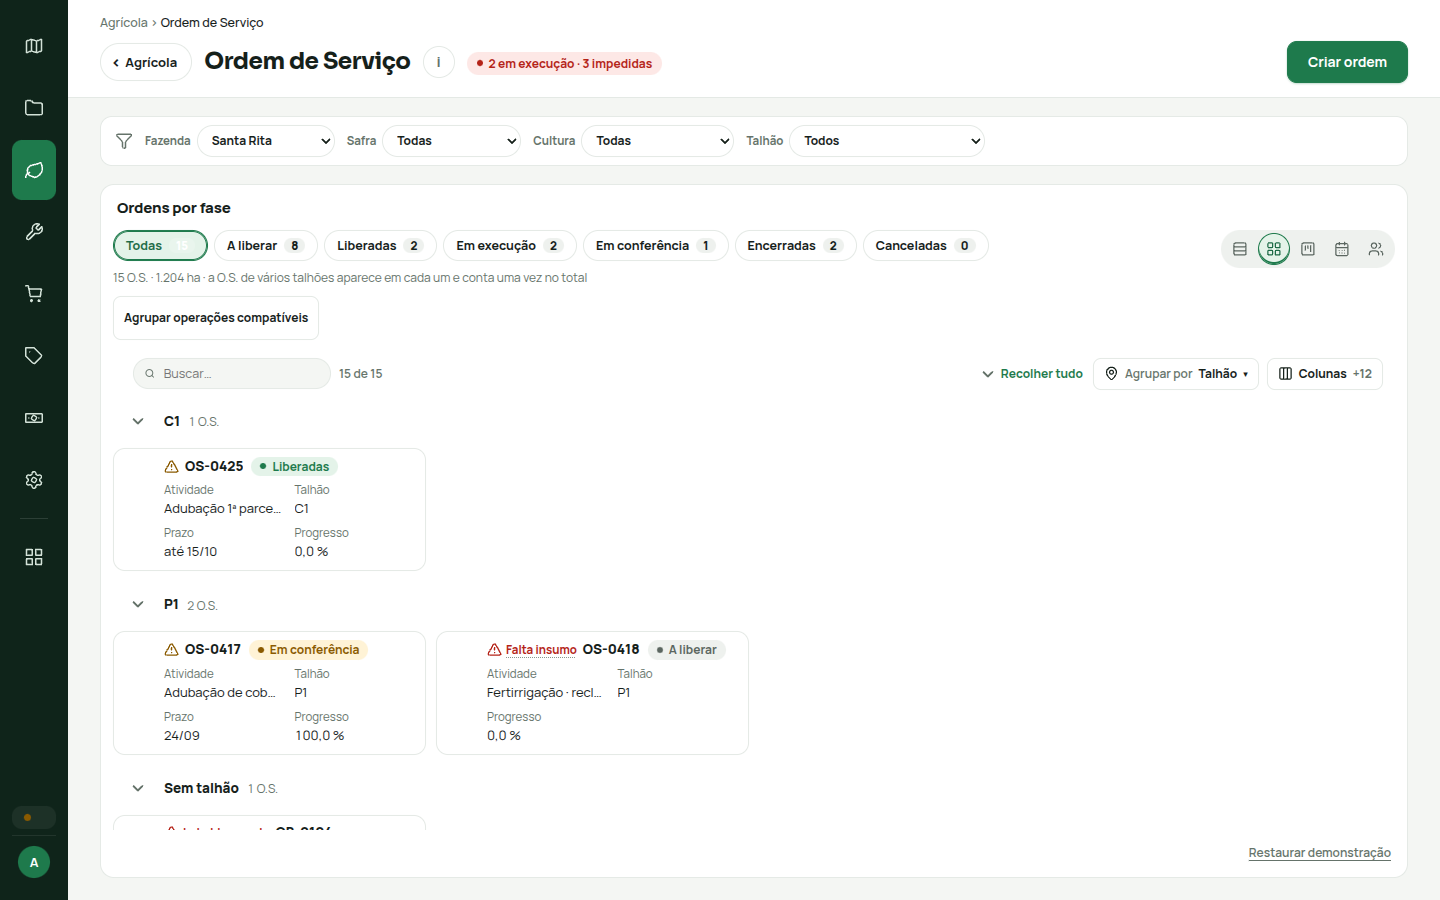
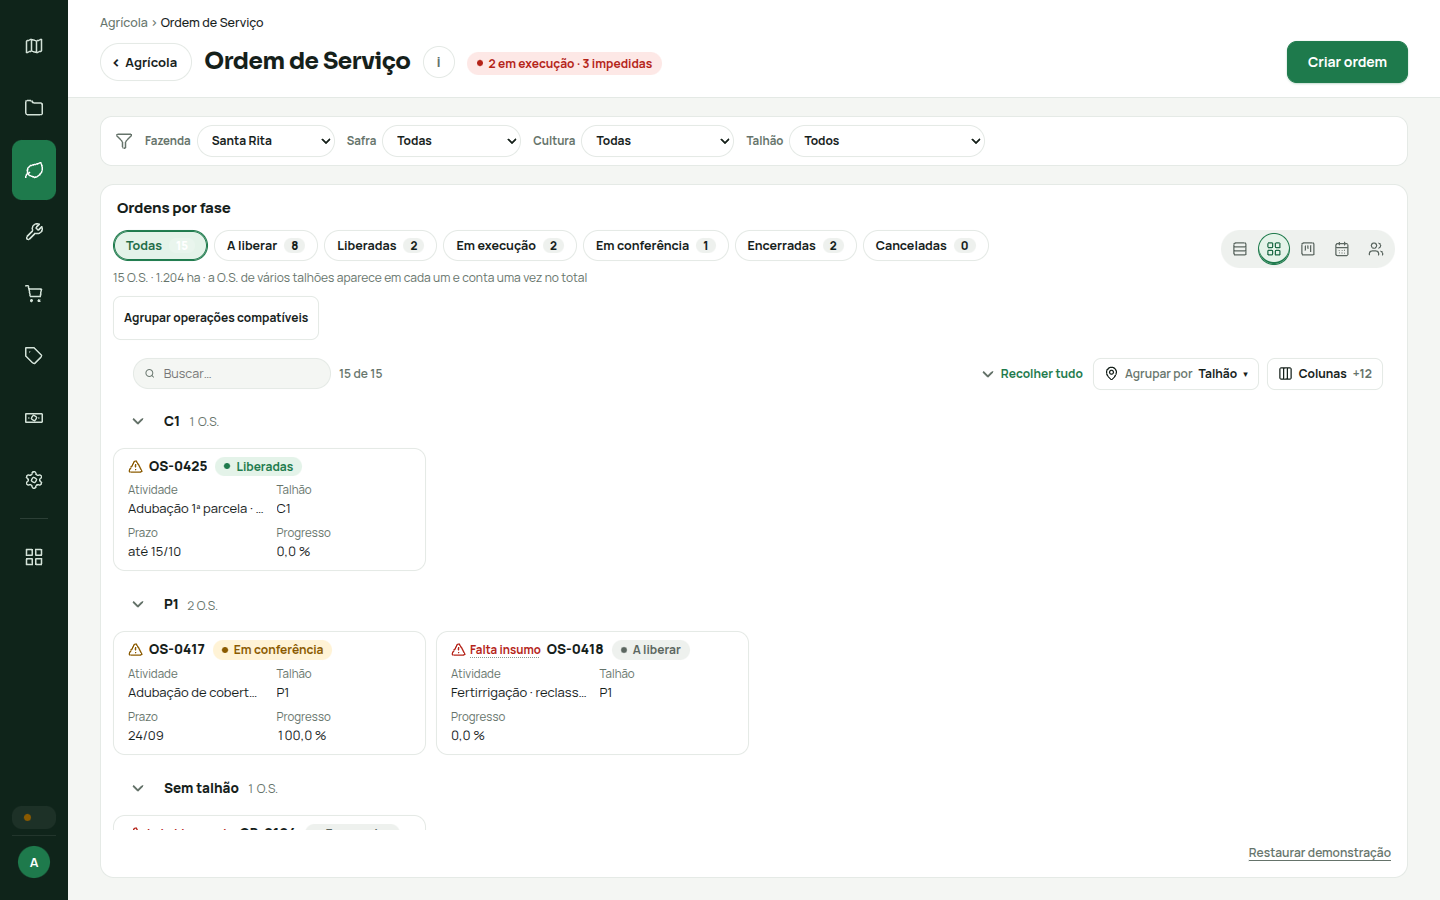
VIS-07: cartão sem coluna vazia da seta no Agrupar por e com o selo de estado no celular
Achados da paridade visual na O.S. em Cartões agrupada por talhão:
- cada cartão abria com ~40 px vazios à esquerda: a coluna da seta era reservada
  porque havia grupos; agora só quando algum cartão tem itens dentro, e o título
  do grupo tem a própria coluna (.g2cd-gcab);
- a 390 px o cartão ficava sem o selo da Fase (a grade do celular só tinha as 3
  primeiras colunas); em Cartões, o celular usa o título e até 4 colunas do
  padrão (g2cvCar); a Tabela no celular segue com as 3 primeiras.

Proteção de regressão: ds_1610_test C3 (contraprova no render de 5bb8f5e: 43/51 px
vazios e 0 de 11 com selo). Executado na candidata: ds_1610 15/0 e parte C 8/0,
cartoes 70/70, ds_test 72/72, visoes2_colunas 14/14, tabelas_os 40/40,
paginas_scan 0 falhas (148), seta_padrao 14/0 (2ª rodada; a 1ª teve 1 falha de
giro na PA, não reproduzida), ds_modulos --catraca ok (13).

Claude-Session: https://claude.ai/code/session_01Div8EjesSwVnpSUvYjZ7kh

Changed region(s): [[0.0938, 0.6844, 0.25, 0.84], [0.0938, 0.4978, 0.25, 0.6222], [0.3125, 0.7156, 0.5, 0.84]]

diff --git a/tools/prototipo/v37/gen37/g2lib.js b/tools/prototipo/v37/gen37/g2lib.js
@@ -281,6 +281,9 @@ function g2cvLer(self,sp){ if(typeof window!=='undefined'&&window.__g2cvTodasSem
   const st=g2st(self,sp.id); if(st.cvpf===undefined||st.cvpf===g2pfk()){ if(Array.isArray(st.cv)) return st.cv; if(st.cv===false) return null; } let x=null;
   try{ x=JSON.parse(localStorage.getItem(g2cvChave(sp))||'null'); }catch(e){ x=null; } return Array.isArray(x)?x.filter(k=>sp.cols.some(c=>c.k===k)):null; }
 function g2cvCel(){ try{ return window.matchMedia('(max-width: 640px)').matches; }catch(e){ return false; } }
+// a grade está em Cartões? (o mesmo modo que g2modosFim vai ler depois do EXTRAVALS)
+function g2cvCar(self,sp){ try{ if(!sp.modo) return false; if(sp.modo==='externo') return g2mdExterno(self,sp)==='cartoes';
+  return g2mdTem(sp)&&g2mdLer(self,{id:sp.id,padrao:'tabela',url:'vista'})==='cartoes'; }catch(e){ return false; } }
 function g2colsVis(self,sp){ if(!g2cvTem(sp)) return sp.cols; const esc=g2cvLer(self,sp), pad=g2cvPadrao(sp), k0=sp.cols[0].k;
   let S=new Set(esc||pad); S.add(k0);
   // o padrão vem na ordem do "Abre com"; cada coluna a mais gruda na vizinha da grade que está no padrão (a anterior; senão a seguinte) e, sem
@@ -292,7 +295,9 @@ function g2colsVis(self,sp){ if(!g2cvTem(sp)) return sp.cols; const esc=g2cvLer(
     else { let j=-1; for(let a=i-1;a>=0&&j<0;a--) j=ord.indexOf(gk[a]); at=j+1; }
     ord.splice(at,0,k); });
   if(gk.every(k=>S.has(k))) ord=gk.slice();   // todas à vista: a tabela completa como foi desenhada (ordem da grade)
-  if(!esc&&g2cvCel()) ord=ord.slice(0,3);   // celular: as 3 primeiras do padrão; a escolha explícita vale em qualquer tela
+  // celular: as 3 primeiras do padrão; a escolha explícita vale em qualquer tela. Em Cartões (VIS-07, 17/10/2026), o título e até G2_CD_MAX
+  // colunas, para o cartão do celular trazer o selo de estado (Fase, Situação) e os mesmos campos do cartão da tela grande
+  if(!esc&&g2cvCel()) ord=ord.slice(0,g2cvCar(self,sp)?1+G2_CD_MAX:3);
   return ord.map(k=>sp.cols.find(c=>c.k===k)).filter(Boolean); }
 function g2cvGrava(self,sp,ks){ try{ if(ks) localStorage.setItem(g2cvChave(sp),JSON.stringify(ks)); else localStorage.removeItem(g2cvChave(sp)); }catch(e){}
   g2set(self,sp.id,{cv:ks?ks.slice():false,cvpf:g2pfk()}); }
@@ -482,7 +487,8 @@ function g2cdVals(self,sp,v){ const id=sp.id, rows=v[id+'_rows']||[], cols=v[id+
   const lab=(i)=>String((cols[i]&&cols[i].l)||'').split(' · ')[0], num=(i)=>!!(cols[i]&&cols[i].a==='r'), fcls=(i)=>'g2cd-f'+(num(i)?' g2cd-num':'');
   const larg=ix.map(i=>{ let w=lab(i).length*7.2; dat.forEach(d=>{ if(!g2cdVazio(d[i])) w=Math.max(w,g2cdLarg(d[i])); }); return Math.round(Math.min(240,Math.max(56,w))+18); });
   const fs=(P)=>ix.map(i=>{ const c=P.dat[i], vz=g2cdVazio(c); return {l:lab(i), parts:vz?[]:c.parts, cls:fcls(i)}; });
-  const temCar=rows.some(rw=>rw.has||rw.grp), temAc=P0.some(P=>P.tr.some(c=>c&&c.isDel));
+  // VIS-07 (17/10): só reserva a coluna da seta quando algum cartão tem itens dentro; o título do grupo tem a sua (CARTOES_CSS .g2cd-gcab)
+  const temCar=rows.some(rw=>rw.has&&!rw.grp), temAc=P0.some(P=>P.tr.some(c=>c&&c.isDel));
   v[id+'_cdgtc']='grid-template-columns:'+(temCar?'max(36px,var(--g2seta-alvo,24px))':'0px')+' '+(off?'34px':'0px')+' minmax(160px,1fr) '+(larg.length?larg.map(w=>'minmax(0,'+w+'px)').join(' '):'0px')+' '+(temAc?'48px':'0px')+';';
   v[id+'_cdcar']=temCar?'1':''; v[id+'_cdhd']=ix.map(i=>({l:lab(i), cls:fcls(i)})); v[id+'_cdhdT']=lab(0); v[id+'_cdhdHas']=ix.length>0;
   const base=(rw)=>{ const P=parte(rw), t0=P.dat[0]||{}, ed=/\bg2ed\b/.test(rw.cls||''), fl=/\bg2flash\b/.test(rw.cls||'');

diff --git a/tools/prototipo/v37/gen37/ds_1610_test.py b/tools/prototipo/v37/gen37/ds_1610_test.py
@@ -103,6 +103,17 @@ def parte_c(c, J, BASE):
     a2 = ids(); txt = J("[...document.querySelectorAll('.pa-tb-l[data-atv]')].map(x=>x.innerText).join('|')") or ''
     chk('C2 TAB-08 Atividades em Tabela: ⇅ do Custo/ha ordena do menor para o maior; o funil de Insumos tira "2 insumos"',
         len(a0) >= 6 and vals == sorted(vals) and len(vals) >= 5 and 0 < len(a2) < len(a0) and '2 insumos' not in txt, [a0, vals, a2])
+    # C3 VIS-07 (17/10/2026, achados da paridade visual da DS-MODULOS-2 na O.S. agrupada por talhão): (a) a 1440 px o cartão sem itens dentro não
+    # reserva a coluna da seta (antes, ~40 px vazios à esquerda de cada cartão); (b) a 390 px o cartão traz o selo da Fase como no computador (antes, a
+    # grade do celular só tinha as 3 primeiras colunas e a Fase ficava de fora). Contraprova: RENDER_DIR no render de 5bb8f5e reprova C3.
+    MED = """(()=>{ const vis=e=>!!e&&e.getClientRects().length>0; const ks=[...document.querySelectorAll('[data-g2cd="g_os"] .g2cd')].filter(vis);
+        const sem=ks.filter(k=>!vis(k.querySelector('.g2cd-nk'))), esq=sem.map(k=>Math.round(k.querySelector('.g2cd-tit').getBoundingClientRect().left-k.getBoundingClientRect().left));
+        return {n:ks.length, esqMax:Math.max(0,...esq), selo:ks.filter(k=>vis(k.querySelector(':scope > .g2cd-lin .g2cd-selo'))).length}; })()"""
+    c.goto(BASE + 'OS.dc.html?view=cartoes&ag=onde', 1.6); m14 = J(MED) or {}
+    c.aparelho(390, 844, 2, True); c.goto(BASE + 'OS.dc.html?view=cartoes&ag=onde', 1.6); m39 = J(MED) or {}
+    c.aparelho(1440, 900, 1)
+    chk('C3 VIS-07 O.S. agrupada por talhão: cartão sem itens dentro sem a coluna vazia da seta (1440 e 390) e com o selo da Fase também a 390 px',
+        m14.get('n', 0) > 0 and m14['esqMax'] <= 24 and m39.get('n', 0) > 0 and m39['esqMax'] <= 24 and m39['selo'] == m39['n'], [m14, m39])
 
 if 'S' in PARTES: parte_s()
 if PARTES & {'B', 'C'}:

diff --git a/tools/prototipo/v37/gen37/engine.py b/tools/prototipo/v37/gen37/engine.py
@@ -1591,6 +1591,9 @@ CARTOES_CSS=(
     # grade de cada cartão: seta · seleção · título · ⋯ na 1ª linha; os campos descem, em duas colunas, com o rótulo
     ".g2cd-g{display:grid;align-items:center;min-width:0;box-sizing:border-box;padding:0 4px 0 6px;grid-template-columns:0px auto minmax(0,1fr) auto!important}"
     ".g2cartoes[data-car=\"1\"] .g2cd-g{grid-template-columns:max(36px,var(--g2seta-alvo)) auto minmax(0,1fr) auto!important}"
+    # o título do grupo (Agrupar por) sempre tem a seta que recolhe; o cartão só reserva a coluna da seta quando algum cartão tem itens dentro
+    # (17/10: agrupada por talhão, cada cartão abria com ~40 px vazios à esquerda)
+    ".g2cd-gcab.g2cd-g{grid-template-columns:max(36px,var(--g2seta-alvo)) auto minmax(0,1fr) auto!important}"
     ".g2cd-lin{min-height:52px}"
     ".g2cd-fs{display:grid;grid-column:3/4;grid-row:2;grid-template-columns:repeat(2,minmax(0,1fr));gap:8px 12px;padding:0 8px 10px}"
     ".g2cd-c{grid-column:1;grid-row:1}.g2cd-s{grid-column:2;grid-row:1}.g2cd-tit{grid-column:3;grid-row:1}.g2cd-a{grid-column:4;grid-row:1}"

diff --git a/docs/integracao/V73/ds-modulos-2/DS-MODULOS-2.md b/docs/integracao/V73/ds-modulos-2/DS-MODULOS-2.md
@@ -82,11 +82,13 @@ Medido com o mesmo roteiro nos dois renders (`OS.dc.html?view=cartoes` e `&ag=on
 | Vista | Cartões | Por linha | Largura média | Altura média | Cabeçalho de colunas | Campos rotulados | Com selo de estado |
 |---|---|---|---|---|---|---|---|
 | solta · 1440 px | 10 → 15 | 1 → 4 | 1282 → 313 px | 54 → 121 px | sim → não | 4–4 → 1–4 | 0 → 15 |
-| agrupada por talhão · 1440 px | 11 → 16 | 1 → 1 | 1282 → 313 px | 54 → 124 px | sim → não | 4–4 → 1–4 | 0 → 16 |
-| solta · 390 px | 10 → 15 | 1 → 1 | 268 → 268 px | 77 → 79 px | não → não | 1–2 → 1–2 | 0 → 0 |
-| agrupada por talhão · 390 px | 11 → 16 | 1 → 1 | 268 → 268 px | 77 → 79 px | não → não | 1–2 → 1–2 | 0 → 0 |
+| agrupada por talhão · 1440 px | 11 → 16 | 1 → 1 | 1282 → 313 px | 54 → 121 px | sim → não | 4–4 → 1–4 | 0 → 16 |
+| solta · 390 px | 10 → 15 | 1 → 1 | 268 → 268 px | 77 → 103 px | não → não | 1–2 → 1–3 | 0 → 15 |
+| agrupada por talhão · 390 px | 11 → 16 | 1 → 1 | 268 → 268 px | 77 → 104 px | não → não | 1–2 → 1–3 | 0 → 16 |
 
-Capturas: `capturas/antes|depois/OS_view-cartoes*_{1440,390}_*.png`.
+"Por linha" conta os cartões da 1ª fileira; na agrupada, o 1º grupo (C1) tem um cartão só. A 390 px a lista em Cartões passou a trazer o selo da Fase (antes, nenhum cartão tinha) e o 3º campo. Os ~40 px vazios à esquerda de cada cartão no Agrupar por saíram: só reserva a coluna da seta o cartão que tem itens dentro. Essas duas correções vieram depois de d5ba66a8, após a 1ª rodada de capturas.
+
+Capturas: `capturas/antes|depois/OS_view-cartoes*_{1440,390}_*.png` (topo da tela) e `OS_view-cartoes_ag-onde_390_lista_{antes,depois}.png` (lista rolada até os cartões).
 
 ## O que fica (13 desvios, com o motivo)
 
@@ -110,6 +112,9 @@ Fotos a 1440 × 900 e 390 × 844 em `capturas/antes` (render de 5bb8f5e) e `capt
 |---|---|---|
 | Cabeçalho diferente nas telas fora do menu: fazenda e safra soltas no topo, sem "‹ Módulo", caminho com os módulos antigos (Campo, Planejamento, Gestão e resultados) | 86 telas | Corrigido na casca (`ui37.shell37`) |
 | Cartão do motor como linha larga de tabela, com cabeçalho de colunas e valores espalhados | toda lista em Cartões | Corrigido (VIS-07) |
+| No Agrupar por, cada cartão abria com ~40 px vazios à esquerda (coluna da seta reservada sem itens dentro) | O.S. em Cartões por talhão e toda lista agrupada | Corrigido (`g2cdVals`, `.g2cd-gcab`) |
+| A 390 px o cartão ficava sem o selo da Fase (a grade do celular só tinha as 3 primeiras colunas) | toda lista em Cartões no celular | Corrigido (`g2colsVis`: em Cartões, o título e até 4 colunas) |
+| No agrupado por talhão, o cartão repete o campo Talhão do grupo | O.S. em Cartões por talhão | **Não mudou:** é uma das colunas do padrão; tirar o campo do agrupamento fica para a próxima rodada do VIS-07 |
 | Cartões de resumo com tipografias diferentes (rótulo em caixa alta em Suprimentos, Logística e Colheita, caixa normal em Campo e Gestão; número de 22 a 30 px) | 25 telas | Saíram com a TAB-07; os que ficam estão nas telas da frente do Codex |
 | Botões de ação com texto e borda dentro das células | 31 telas | Corrigido (TAB-05 no motor) |
 | Duas ações à vista no cabeçalho | Estrutura gerencial | Corrigido (MAIS-02) |
@@ -168,6 +173,20 @@ Comandos rodados de `tools/prototipo/v37/gen37/` com `CHROME_BIN=/tmp/cloudchrom
 | node: sup_movimentos, sup_movimentos_ui, sup_necessidades, sup_politicas, sup_politicas_ui (depois dos `*_capture.py`) | 7 · 7 · 15 · 11 · 9 PASS, 0 falhas (rc 0) |
 | node: os_lote_unit.js · os_lote_foco_unit.js | 104 ok · 0 falhas · 8 ok · 0 falhas |
 | textos_soltos_test.py | 267 OK · 1 falha. A falha é a mesma no render da base (`RENDER_DIR=render de 5bb8f5e`: 267 OK · 1 falha): "D CA-01det … o agrônomo ajusta e libera a v3 só para o saldo". O texto da dica em `areas/campo.py` é igual em 5bb8f5e, 87d2deab e ac5cd1d7; o teste é anterior ao d5342d48. Arquivo da frente do Codex; fica para quem mexe no CA-01det |
+
+**Ajuste VIS-07 depois de d5ba66a8** (achados da paridade visual na O.S. agrupada por talhão; `engine.CARTOES_CSS` e `g2lib`: `g2cdVals` e `g2colsVis`/`g2cvCar`). Proteção de regressão: `ds_1610_test.py` C3.
+
+| Teste | Resultado |
+|---|---|
+| ds_1610_test.py (completo) | 15 ok · 0 falhas (antes do C3); só a parte C com o C3: 8 ok · 0 falhas |
+| ds_1610_test.py C3 no render de 5bb8f5e (contraprova) | reprova: coluna vazia de 43 px a 1440 e de 51 px a 390; 0 de 11 cartões com selo a 390 |
+| cartoes_test.py | 70/70 |
+| ds_test.py | OK 72/72 |
+| visoes2_colunas_test.py (o celular em Tabela segue com as 3 primeiras) | 14/14 |
+| tabelas_os_test.py | 40/40 ok |
+| paginas_scan_test.py | 5 ok · 0 falhas (148 páginas) |
+| ds_modulos.py --catraca | catraca ok · 13 desvios |
+| seta_padrao_test.py | 14 ok · 0 falhas (2ª rodada completa). A 1ª deu 13 ok · 1 falha: D1440, giro da seta em `PA.dc.html?view=tabela#plano=SOJA-AT`, tela que esta frente não mexe. No diagnóstico só da PA (`SPT_SO=PA.dc.html`, 2 vezes na candidata e 1 na base) não houve desvio. Registrado como instável de tempo, não escondido |
 
 ## Fronteiras respeitadas
 

diff --git a/docs/design-system/padroes-1710.md b/docs/design-system/padroes-1710.md
@@ -28,11 +28,12 @@ Pedidos do proprietário em 17/10, transformados em padrão pelo método da skil
 - Grade de cartões compactos: vários por fileira no computador (mínimo de 300 px cada), um por fileira no celular.
 - Dentro de cada grupo, a mesma grade; o título do grupo e as somas ficam acima dela.
 - Cada cartão:
-  1. seta à esquerda quando há itens dentro (abre no próprio cartão), seleção quando a lista tem;
+  1. seta à esquerda quando há itens dentro (abre no próprio cartão), seleção quando a lista tem. A coluna da seta só existe quando algum cartão tem itens dentro; o título do grupo tem a sua;
   2. título com o identificador e, ao lado, o **selo de estado** (a 1ª coluna em que todo valor começa por um selo: Fase, Situação);
   3. até 4 campos, cada um com o seu rótulo, em duas colunas;
   4. ⋯ da linha no fim da 1ª linha.
 - Sem cabeçalho de colunas.
+- No celular, o cartão traz o mesmo selo e os mesmos campos do computador. Em Cartões, a grade usa o título e até 4 colunas do padrão; a Tabela segue com as 3 primeiras.
 - Total numa faixa acima dos cartões, com rótulos.
 
 **Peça única:** `CARTOES_CSS` e `_cartoes_html` no `engine.py`; `g2cdVals` no `g2lib.js` (selo e campos). A lista própria das Atividades do plano não muda.
